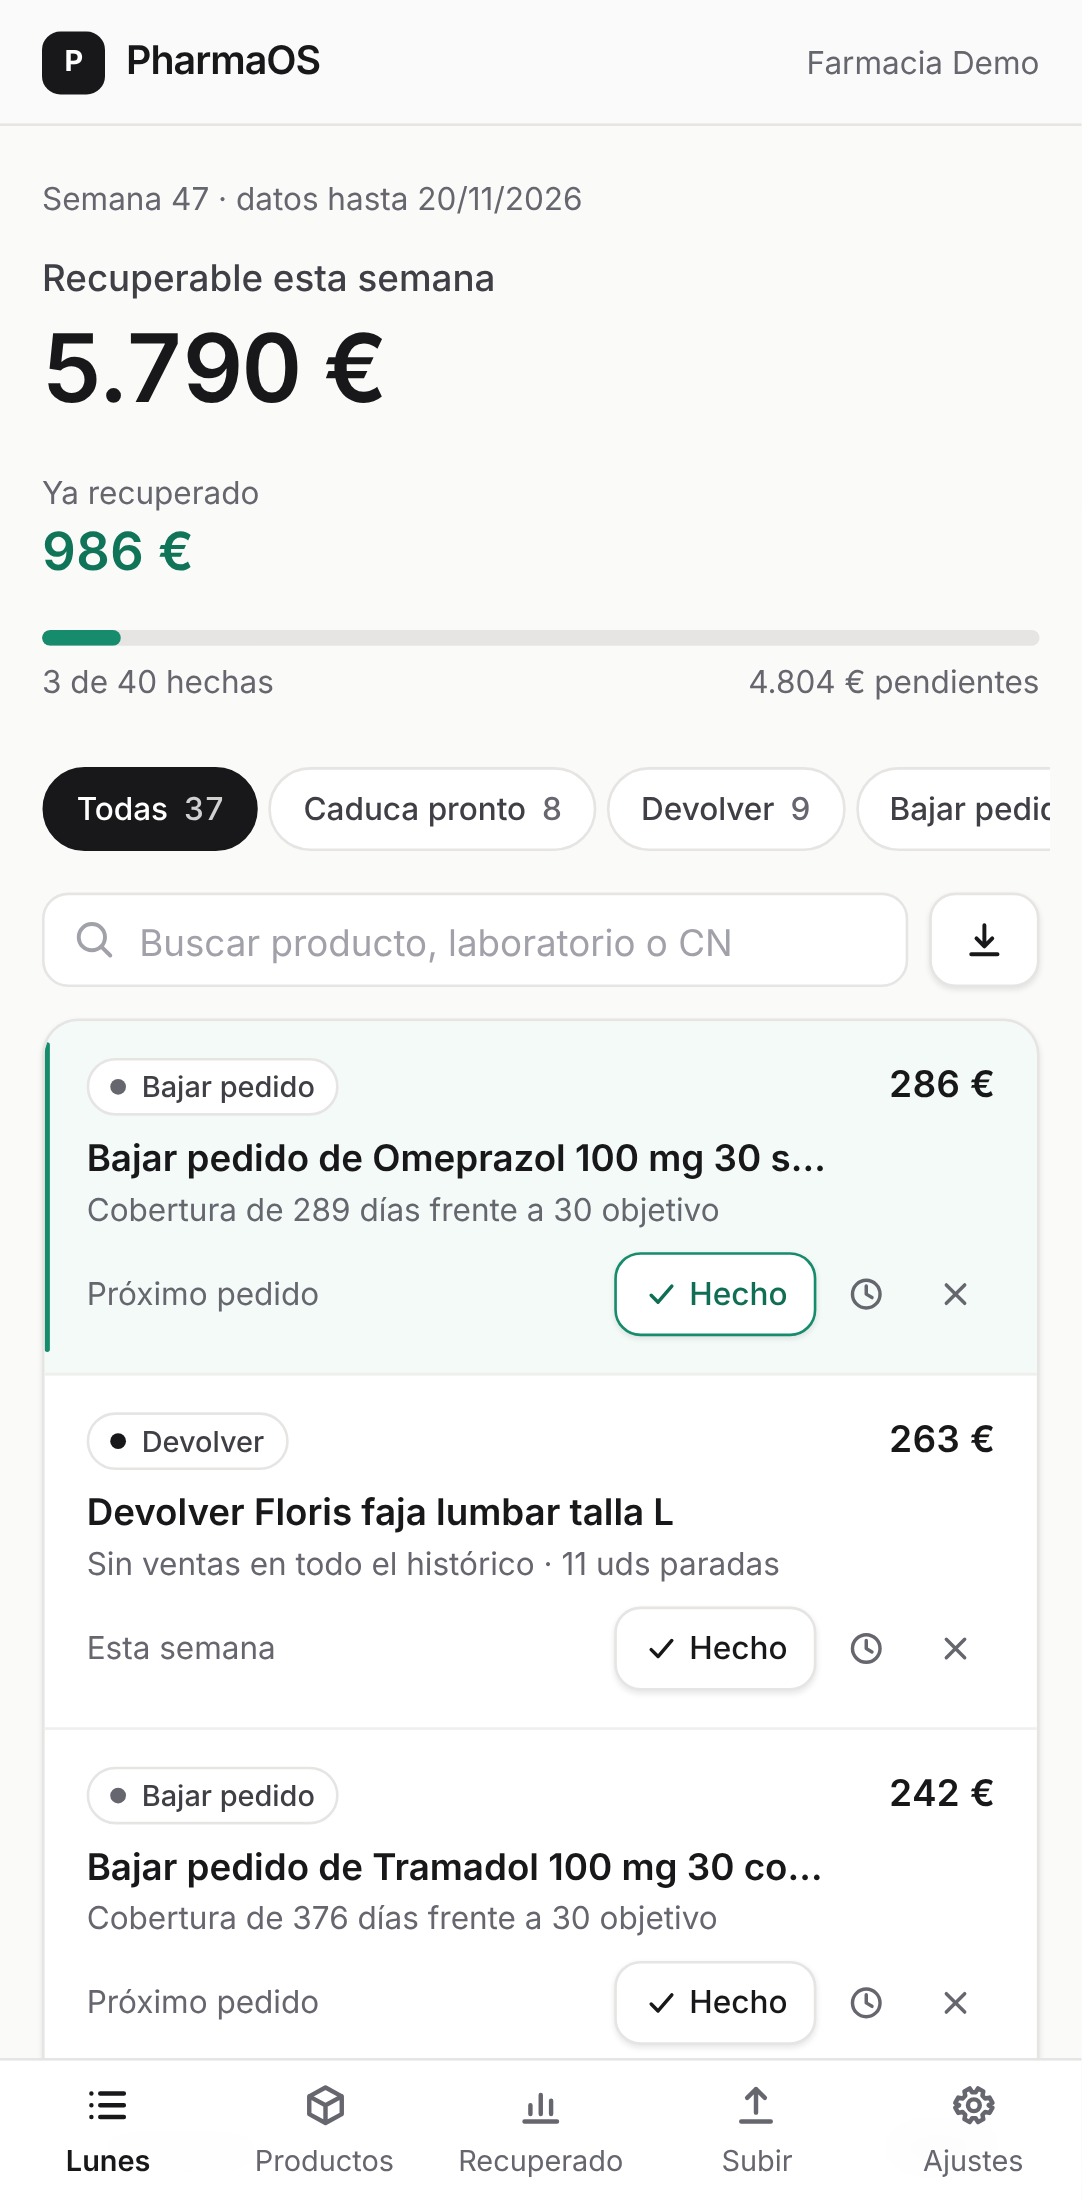
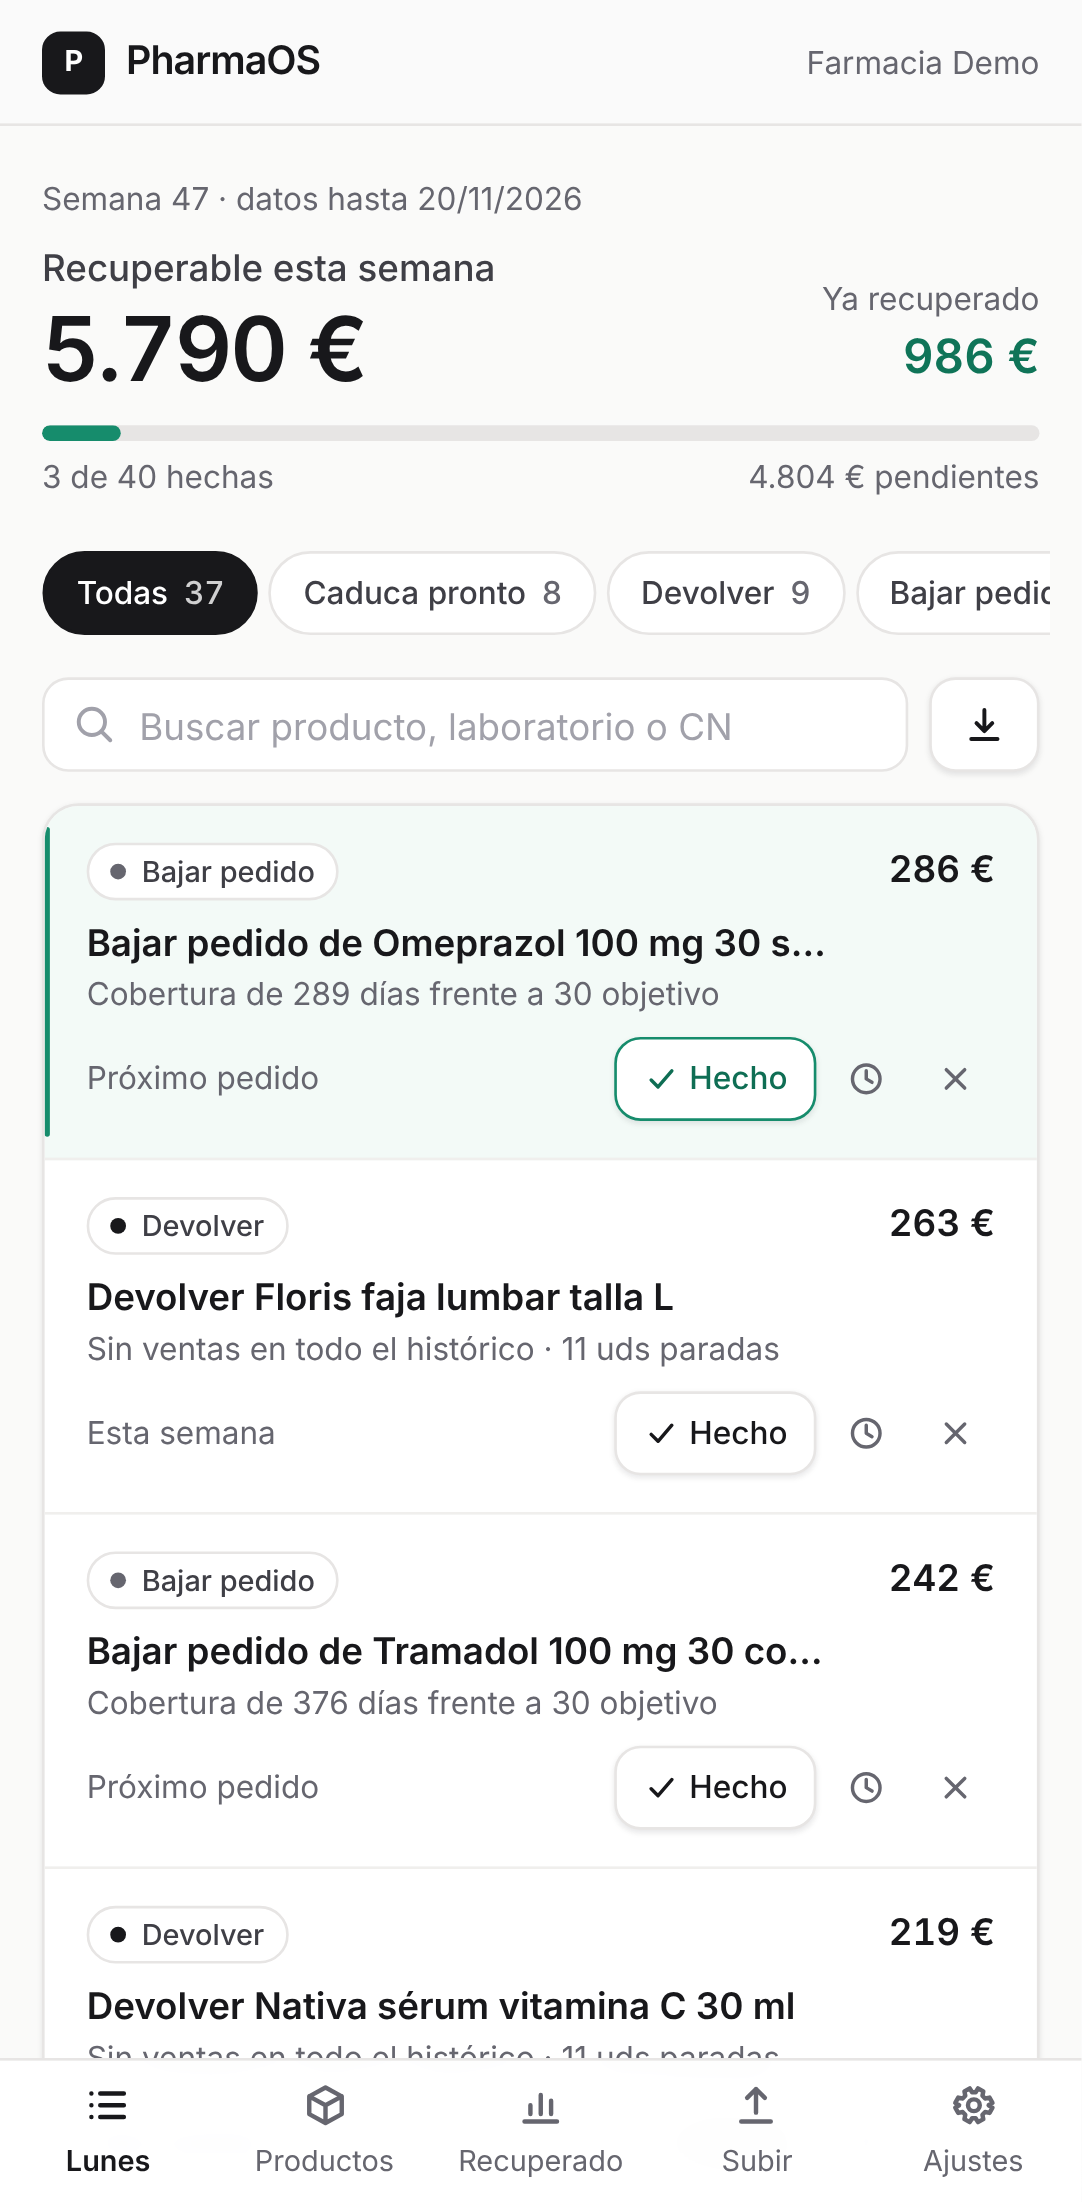
fase 12 (tanda 2): pulido móvil — cabecera compacta en /lunes, tablas de /recuperado que caben
Claude-Session: https://claude.ai/code/session_01BU2rzhLUz2khyPbB3vJEot

diff --git a/web/src/features/recuperado/RecuperadoView.tsx b/web/src/features/recuperado/RecuperadoView.tsx
@@ -157,7 +157,8 @@ export function RecuperadoView({ report }: { report: Report }) {
                 {executed.map(({ action, at }) => (
                   <tr key={action.id} className="border-b border-line-soft last:border-0">
                     <td className="whitespace-nowrap px-5 py-2.5 tabular-nums text-ink-muted">
-                      {formatDate(at)}
+                      <span className="sm:hidden">{formatDate(at).slice(0, 5)}</span>
+                      <span className="hidden sm:inline">{formatDate(at)}</span>
                     </td>
                     <td className="px-2 py-2.5 text-ink">{action.titulo}</td>
                     <td className="hidden px-2 py-2.5 sm:table-cell">
@@ -194,7 +195,7 @@ export function RecuperadoView({ report }: { report: Report }) {
                 <th scope="col" className="px-5 py-2 font-semibold">
                   Semana
                 </th>
-                <th scope="col" className="px-2 py-2 text-right font-semibold">
+                <th scope="col" className="hidden px-2 py-2 text-right font-semibold sm:table-cell">
                   Encontrado
                 </th>
                 <th scope="col" className="px-2 py-2 text-right font-semibold">
@@ -209,14 +210,18 @@ export function RecuperadoView({ report }: { report: Report }) {
               {report.historico_semanas.map((w) => (
                 <tr key={w.semana} className="border-b border-line-soft last:border-0">
                   <td className="px-5 py-2.5 text-ink">
-                    Semana {weekNumber(w.semana)}{" "}
-                    <span className="text-ink-muted">· {formatDate(w.fecha_inicio)}</span>
+                    <span className="whitespace-nowrap">Semana {weekNumber(w.semana)}</span>
+                    <span className="block text-xs text-ink-muted sm:ml-1 sm:inline">
+                      {formatDate(w.fecha_inicio)}
+                    </span>
                   </td>
-                  <td className="px-2 py-2.5 text-right tabular-nums">{formatEur(w.encontrado_eur)}</td>
+                  <td className="hidden px-2 py-2.5 text-right tabular-nums sm:table-cell">
+                    {formatEur(w.encontrado_eur)}
+                  </td>
                   <td className="px-2 py-2.5 text-right tabular-nums">
-                    {formatEur(w.ejecutado_eur)}{" "}
-                    <span className="text-2xs text-ink-muted">
-                      ({w.acciones_ejecutadas}/{w.acciones_encontradas})
+                    <span className="whitespace-nowrap">{formatEur(w.ejecutado_eur)}</span>
+                    <span className="block text-2xs text-ink-muted sm:ml-1 sm:inline">
+                      {w.acciones_ejecutadas} de {w.acciones_encontradas} acciones
                     </span>
                   </td>
                   <td className="px-5 py-2.5 text-right font-semibold tabular-nums text-brand-text">

diff --git a/web/src/features/lunes/LunesView.tsx b/web/src/features/lunes/LunesView.tsx
@@ -121,7 +121,7 @@ export function LunesView({ report }: { report: Report }) {
 
   return (
     <div>
-      <header className="mb-6">
+      <header className="mb-5 sm:mb-6">
         <div className="flex flex-wrap items-center justify-between gap-2 text-xs text-ink-muted">
           <span>
             Semana {weekNumber(report.farmacia.semana)} · datos hasta{" "}
@@ -135,24 +135,27 @@ export function LunesView({ report }: { report: Report }) {
             <Icon name="keyboard" size={14} /> Atajos <kbd>?</kbd>
           </button>
         </div>
-        <div className="mt-3 flex flex-col gap-5 sm:flex-row sm:items-end sm:justify-between">
+        <div className="mt-2 flex flex-row items-end justify-between gap-4 sm:mt-3">
           <div>
             <h1 className="text-sm font-medium text-ink-soft">Recuperable esta semana</h1>
             <p
-              className="mt-1 text-4xl font-semibold tabular-nums tracking-tight text-ink sm:text-5xl"
+              className="mt-1 text-[34px] font-semibold tabular-nums leading-none tracking-tight text-ink sm:text-5xl"
               data-testid="recuperable"
             >
               {formatEur(progress.recoverable)}
             </p>
           </div>
-          <div className="sm:text-right">
+          <div className="text-right">
             <div className="text-xs text-ink-muted">Ya recuperado</div>
-            <div className="text-xl font-semibold tabular-nums text-brand-text" data-testid="recuperado">
+            <div
+              className="text-lg font-semibold tabular-nums text-brand-text sm:text-xl"
+              data-testid="recuperado"
+            >
               {formatEur(progress.recovered)}
             </div>
           </div>
         </div>
-        <div className="mt-4">
+        <div className="mt-3 sm:mt-4">
           <ProgressBar value={progress.done} max={progress.total} label="Acciones hechas esta semana" />
           <div className="mt-1.5 flex justify-between text-xs text-ink-muted">
             <span data-testid="progreso">

diff --git a/PULIDO.md b/PULIDO.md
@@ -15,3 +15,15 @@ Ordenado de más a menos grave. ✅ = arreglado.
 5. ✅ **Gráfico vacío** en productos sin ventas en 12 semanas: un recuadro en blanco parece un error. Ahora
    dice "Sin ventas en las últimas 12 semanas".
 6. ✅ **Página 404 y errores en inglés** (por defecto de Next). Ahora en español y con salida a la lista.
+
+## Tanda 2 (móvil)
+7. ✅ **/lunes en móvil:** la cabecera ocupaba media pantalla y la primera acción quedaba abajo. "Ya
+   recuperado" pasa a la derecha del importe grande y se reducen márgenes: la primera acción se ve sin scroll.
+8. ✅ **/recuperado en móvil:** la tabla de semanas se cortaba por la derecha. Se oculta "Encontrado"
+   (ya está en las cifras grandes), la fecha va debajo de la semana y "19/58" pasa a "19 de 58 acciones".
+9. ✅ **Fechas largas en la tabla de ejecutadas** en móvil: "26/11" en vez de "26/11/2026".
+
+## Pendiente de pulido (no bloqueante)
+- En móvil, los filtros por tipo se desplazan en horizontal: no hay indicador visual de que hay más.
+- La ficha en móvil es una hoja inferior: con el teclado del móvil abierto en la búsqueda, tapa media pantalla.
+- La impresión A4 no se ha probado en una impresora física (solo vista previa del navegador).
